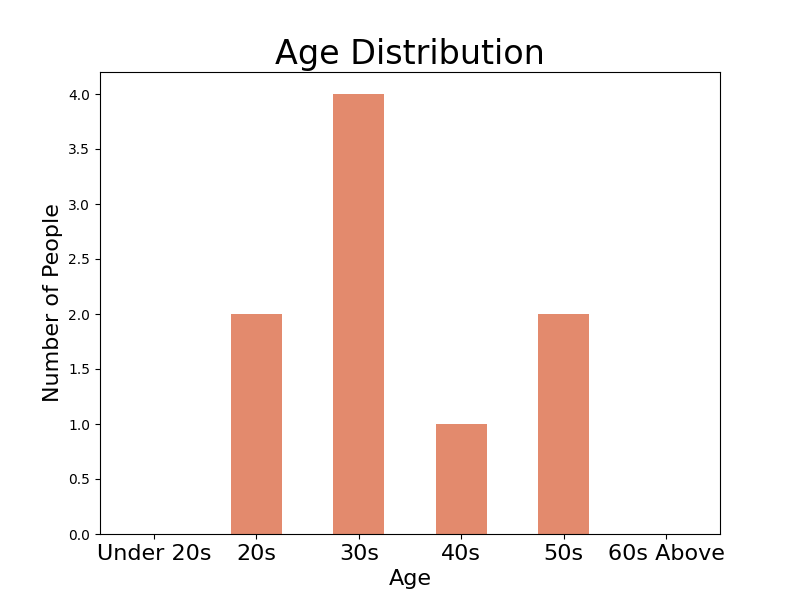
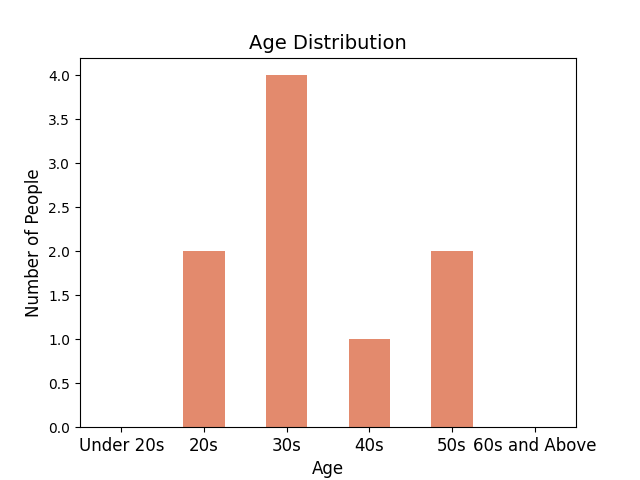
한글 깨짐

diff --git a/dataAnalysis.py b/dataAnalysis.py
@@ -188,7 +188,7 @@ def preprocess_data(api_url, user_data_path, store_favorite_path, store_info_pat
         # 병합
         merged_api_data = pd.merge(api_data, store_info[['id', 'name']], on='name', how='left')
 
-        #print(merged_api_data[['name', 'id']])  # 이름과 id를 확인해 봄
+        print(merged_api_data[['name', 'id']])  # 이름과 id를 확인해 봄
         return user_data, store_favorite, merged_api_data
     except Exception as e:
         print(f"데이터 처리 오류: {e}")
@@ -263,8 +263,8 @@ def generate_age_distribution_image(output_path):
         store_info = pd.read_csv(store_info_path)
 
         # 카페 이름 확인
-        #print(store_info[['name']].head())
-        #print(df_api[['name']].head())
+        print(store_info[['name']].head())
+        print(df_api[['name']].head())
 
         # 데이터 병합 및 정제
         user_age_data = pd.merge(
@@ -277,7 +277,7 @@ def generate_age_distribution_image(output_path):
 
         # 연령대별 카페별 방문자 수 집계
         user_age_data['age_group'] = user_age_data['age_group'].astype(str)  # 문자열로 변환
-        #print(user_age_data.head())
+        print(user_age_data.head())
         age_distribution = user_age_data.groupby(['store_id', 'age_group']).size().unstack(fill_value=0)
 
         # API 데이터와 Store 정보 병합
@@ -383,7 +383,7 @@ def generate_busiest_and_least_busy_times():
             color='black',
             bbox=dict(facecolor='none', edgecolor='none', alpha=0.7)  # 텍스트 배경 추가
         )
-    plt.title('Busiest and Calmest Time Periods by Day of the Week', fontsize=22)
+    plt.title('Busiest and Calmest Time Periods by Day of the Week', fontsize=18)
     plt.xticks(fontsize=18)
     plt.xlabel('Week', fontsize=16)
     plt.ylabel('Congestion', fontsize=16)
@@ -445,53 +445,37 @@ def visualize_favorites_by_store():
         # 성별 분포
         gender_counts = matched_survey_data['gender'].value_counts()
         gender_counts.plot(kind='bar', color=['lightpink', 'skyblue'], rot=0, title='Gender Distribution')
-        plt.title('Gender Distribution', fontsize=20)  # 제목 폰트 크기 설정
-        plt.xlabel('Gender', fontsize=16)  # x축 폰트 크기 설정
-        plt.ylabel('Number of People', fontsize=18)  # y축 폰트 크기 설정
-        plt.xticks(ticks=range(len(gender_counts)), labels=['Female', 'Male'], fontsize = 16)
+        plt.title('Gender Distribution', fontsize=14)  # 제목 폰트 크기 설정
+        plt.xlabel('Gender', fontsize=12)  # x축 폰트 크기 설정
+        plt.ylabel('Number of People', fontsize=12)  # y축 폰트 크기 설정
+        plt.xticks(ticks=range(len(gender_counts)), labels=['Female', 'Male'], fontsize = 12)
         gender_path = os.path.join(STATIC_FOLDER, 'gender_distribution_target_store.png')
         plt.savefig(gender_path)
         plt.close()
         
         # 연령대별 분포
         age_bins = [0, 19, 29, 39, 49, 59, 120]
-        age_labels = ['Under 20s', '20s', '30s', '40s', '50s', '60s Above']
+        age_labels = ['Under 20s', '20s', '30s', '40s', '50s', '60s and Above']
         matched_survey_data['age_group'] = pd.cut(matched_survey_data['age'], bins=age_bins, labels=age_labels, right=False)
         age_counts = matched_survey_data['age_group'].value_counts().sort_index()
-
-        # 플롯 생성
-        fig, ax = plt.subplots(figsize=(8, 6))  # figsize로 그림 크기 조정 가능
-        bar_width = 0.5  # 막대 너비
-        bar_positions = range(len(age_counts))
-
-        ax.bar(bar_positions, age_counts, color='#e38a6d', width=bar_width)
-        plt.xticks(bar_positions)
-        ax.set_xticklabels(age_counts.index, fontsize =16)
+        age_counts.plot(kind='bar', color='#e38a6d', rot=0, title='Age Distribution')
         plt.rc('font', family='AppleGothic')
-        plt.title('Age Distribution', fontsize=24)  # 제목 폰트 크기 설정
-        plt.xlabel('Age', fontsize=16)  # x축 폰트 크기 설정
-        plt.ylabel('Number of People', fontsize=16)  # y축 폰트 크기 설정
+        plt.xticks(fontsize=12)
+        plt.title('Age Distribution', fontsize=14)  # 제목 폰트 크기 설정
+        plt.xlabel('Age', fontsize=12)  # x축 폰트 크기 설정
+        plt.ylabel('Number of People', fontsize=12)  # y축 폰트 크기 설정
         age_path = os.path.join(STATIC_FOLDER, 'age_distribution_target_store.png')
         plt.savefig(age_path)
         plt.close()
         
         # 선호 메뉴 분포
         favorite_menu_counts = matched_survey_data['favorite_menu'].value_counts()
-        # 플롯 생성
-        fig, ax = plt.subplots(figsize=(8, 6))  # 플롯 크기 설정
-        bar_width = 0.4  # 막대 너비
-        bar_positions = range(len(favorite_menu_counts))
-
-        ax.bar(bar_positions, favorite_menu_counts, color='#8a6857', width=bar_width)
-
-        # 막대 레이블 및 제목 설정
-        ax.set_xticks(bar_positions)
-        ax.set_xticklabels(favorite_menu_counts.index, fontsize=18)  # 글자 회전 조정
-        ax.set_title('Favorite Menu Distribution', fontsize=20)  # 제목 폰트 크기 설정
-        ax.set_xlabel('Preference', fontsize=16)  # x축 폰트 크기 설정
-        ax.set_ylabel('Number of People', fontsize=18)  # y축 폰트 크기 설정
-
+        favorite_menu_counts.plot(kind='bar', color='#8a6857', rot=45, title='Favorite Menu Distribution')
         menu_path = os.path.join(STATIC_FOLDER, 'favorite_menu_distribution_target_store.png')
+        plt.xticks(fontsize=12)
+        plt.title('Favorite Menu Distribution', fontsize=14)  # 제목 폰트 크기 설정
+        plt.xlabel('Preference', fontsize=12)  # x축 폰트 크기 설정
+        plt.ylabel('Number of People', fontsize=12)  # y축 폰트 크기 설정
         plt.savefig(menu_path, bbox_inches='tight')
         plt.close()
         
